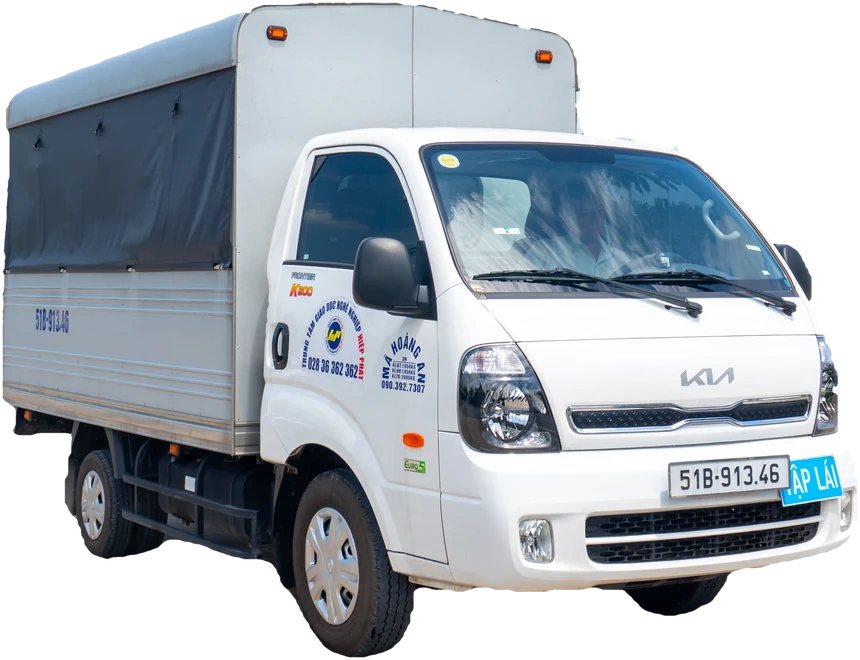
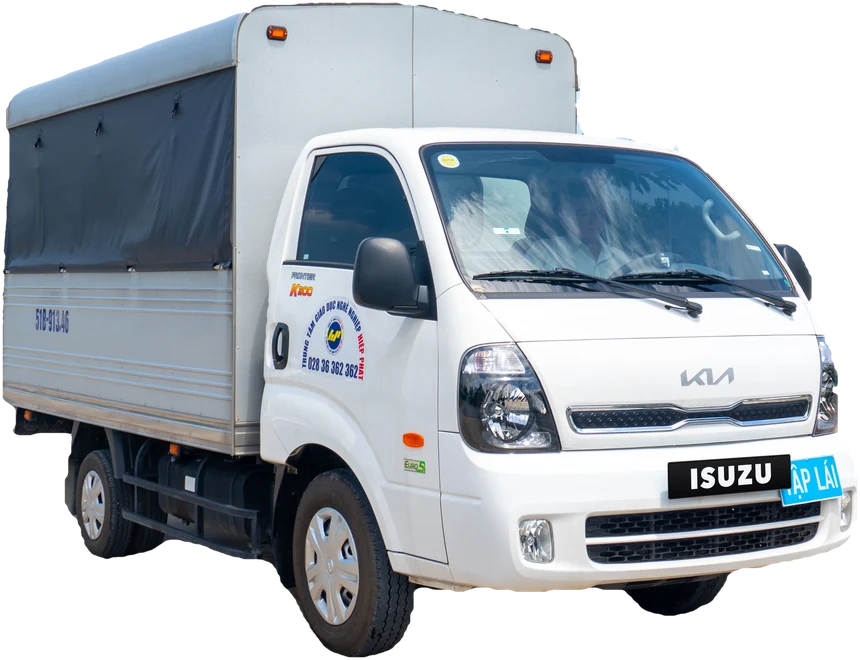
feat: replace course vehicle images and practice video

Changed region(s): [[0.7558, 0.6667, 0.9372, 0.7576], [0.4233, 0.5152, 0.514, 0.6061]]

diff --git a/index.html b/index.html
@@ -2171,7 +2171,7 @@
             >
               <div
                 class="pacc-item is-active"
-                data-video-id="LntLI82wtoY"
+                data-video-id="UvVXyBfiHgQ"
                 data-title="Thực hành sa hình"
               >
                 <button
@@ -2233,7 +2233,7 @@
               <div class="platform-v2-practice-player">
                 <iframe
                   data-platform-video
-                  src="https://www.youtube-nocookie.com/embed/LntLI82wtoY?playsinline=1&amp;enablejsapi=1"
+                  src="https://www.youtube-nocookie.com/embed/UvVXyBfiHgQ?playsinline=1&amp;enablejsapi=1"
                   title="Video m&#xF4; ph&#x1ECF;ng th&#x1EF1;c h&#xE0;nh sa h&#xEC;nh"
                   loading="lazy"
                   referrerpolicy="strict-origin-when-cross-origin"
